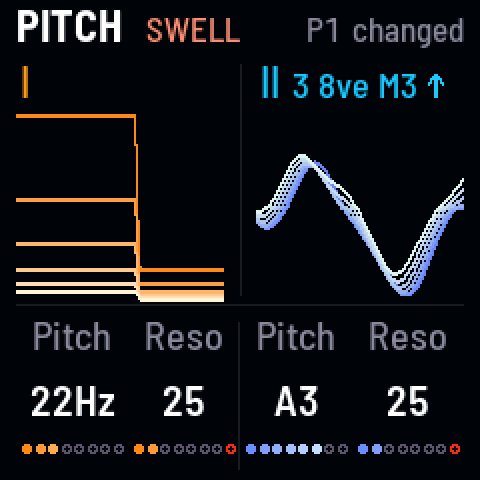
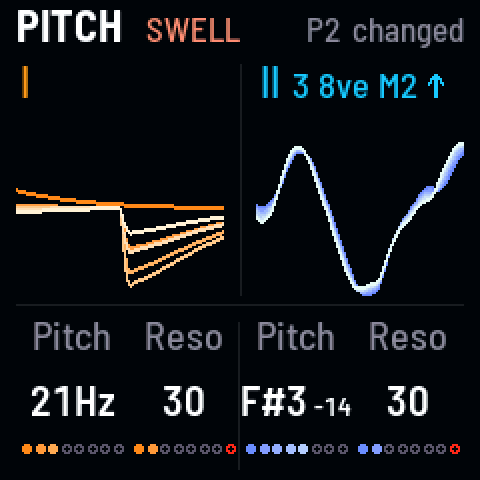
Recipes: Ticks and clicks on Embers, drone I at 21 Hz and level 50: the clicks as percussion under drone II

diff --git a/docs/manual/recipes/sounds.md b/docs/manual/recipes/sounds.md
@@ -13,27 +13,29 @@ image: ticks-1.png
 
 *A sub so low it breaks into clicks, a few a second*
 
-Put drone I's sub four octaves down, all the way in, and turn drone I down to about 22 Hz: the sub stops being a
-tone and becomes clicks, about 3 a second, ringing in the delay and reverb.
+Put drone I's sub four octaves down, all the way in, and turn drone I down to about 21 Hz: the sub stops being a
+tone and becomes clicks, about 2.6 a second. Turn drone I down and the clicks play like percussion under drone II.
 
-1. Press [[EDIT]] twice for **Sub · Drive**, and turn KNOB 1, Osc/Sb, all the way to the sub: **100**.
-2. Tap [[G#3]], drone I's sub, until the screen says **−4 oct**. It goes round −1, −2, ⅓, ⅕, −3, −4.
-3. Press [[HOME]] twice for **Pitch**, and turn KNOB 1, drone I's pitch, quickly down past **A0**, where the screen
-   turns to Hz, to about **22 Hz**: clicks.
+1. Hold [[SEL]] and tap [[F5]] for the presets, then tap white key 2: **Embers** (P2).
+2. Press [[EDIT]] twice for **Sub · Drive**, and turn KNOB 1, Osc/Sb, all the way to the sub: **100**.
+3. Tap [[G#3]], drone I's sub, until the screen says **−4 oct**. It goes round −1, −2, ⅓, ⅕, −3, −4.
+4. Press [[HOME]] twice for **Pitch**, and turn KNOB 1, drone I's pitch, quickly down past **A0**, where the screen
+   turns to Hz, to about **21 Hz**: clicks.
+5. Press [[HOME]] for **Drones**, and turn KNOB 1, drone I's level, down to about **50**: the clicks under drone II.
 
 > **Good to know.** The clicks a second are drone I's pitch ÷ 8 (the sub is ÷ 16, two clicks to its cycle): at D3, 18
-> a second; at A0 (27.5 Hz), about 3; at 22 Hz, 2.7; at 5 Hz, one every 1.6 s. The clicks reach the speaker, though
+> a second; at A0 (27.5 Hz), about 3; at 21 Hz, 2.6; at 5 Hz, one every 1.6 s. The clicks reach the speaker, though
 > the hum under them doesn't. The **Tick** gesture ([[G4]]) does this on its own, faster as you press harder. Or take
 > drone I itself under 20 Hz with Osc/Sb at 0: a click each cycle, as in **Sonar** (P7).
 
 ![Sub · Drive, drone I's sub at -4 oct, Osc/Sb 100](../media/ticks-0.png "−4 oct, all sub")
-![Pitch, drone I at 22 Hz](../media/ticks-1.png "drone I at 22 Hz")
+![Pitch, drone I at 21 Hz](../media/ticks-1.png "drone I at 21 Hz")
 
 **Listen** (`ticks`)
 
-- 0:00 P1 Niagara as it starts: no clicks
-- 0:01 Osc/Sb to the sub, the sub to −4 oct, drone I's pitch quickly down to 22 Hz
-- 0:04 Clicks, about 3 a second, ringing in P1's delay and reverb
+- 0:00 Embers (P2) as it starts: no clicks
+- 0:01 Osc/Sb to the sub, the sub to −4 oct, drone I's pitch quickly down to about 21 Hz, its level down to 50
+- 0:06 Clicks, about 2.6 a second, as percussion under drone II's blooming triangle
 
 ### A singing filter {#sing}
 
